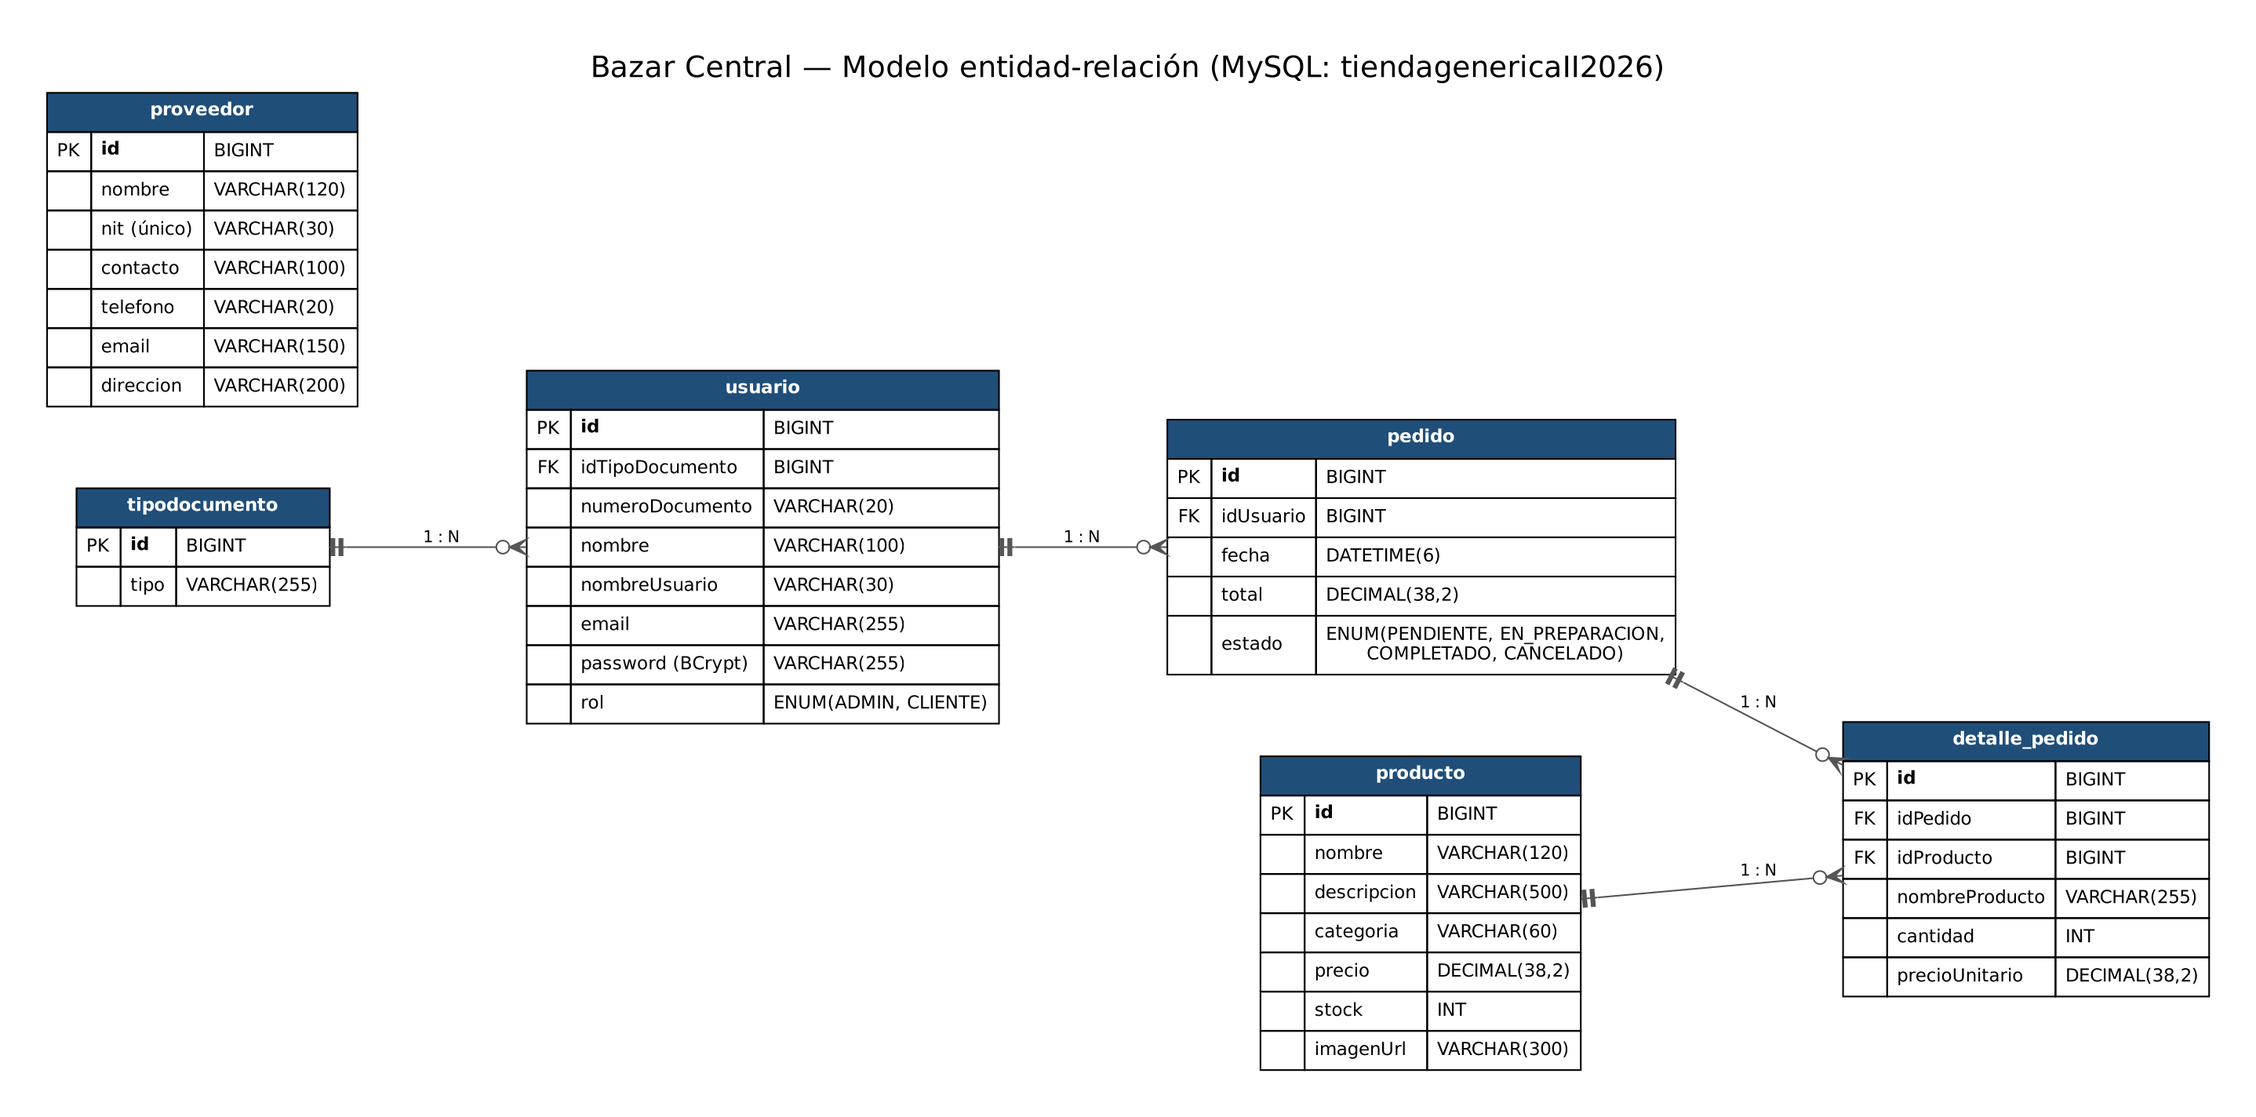
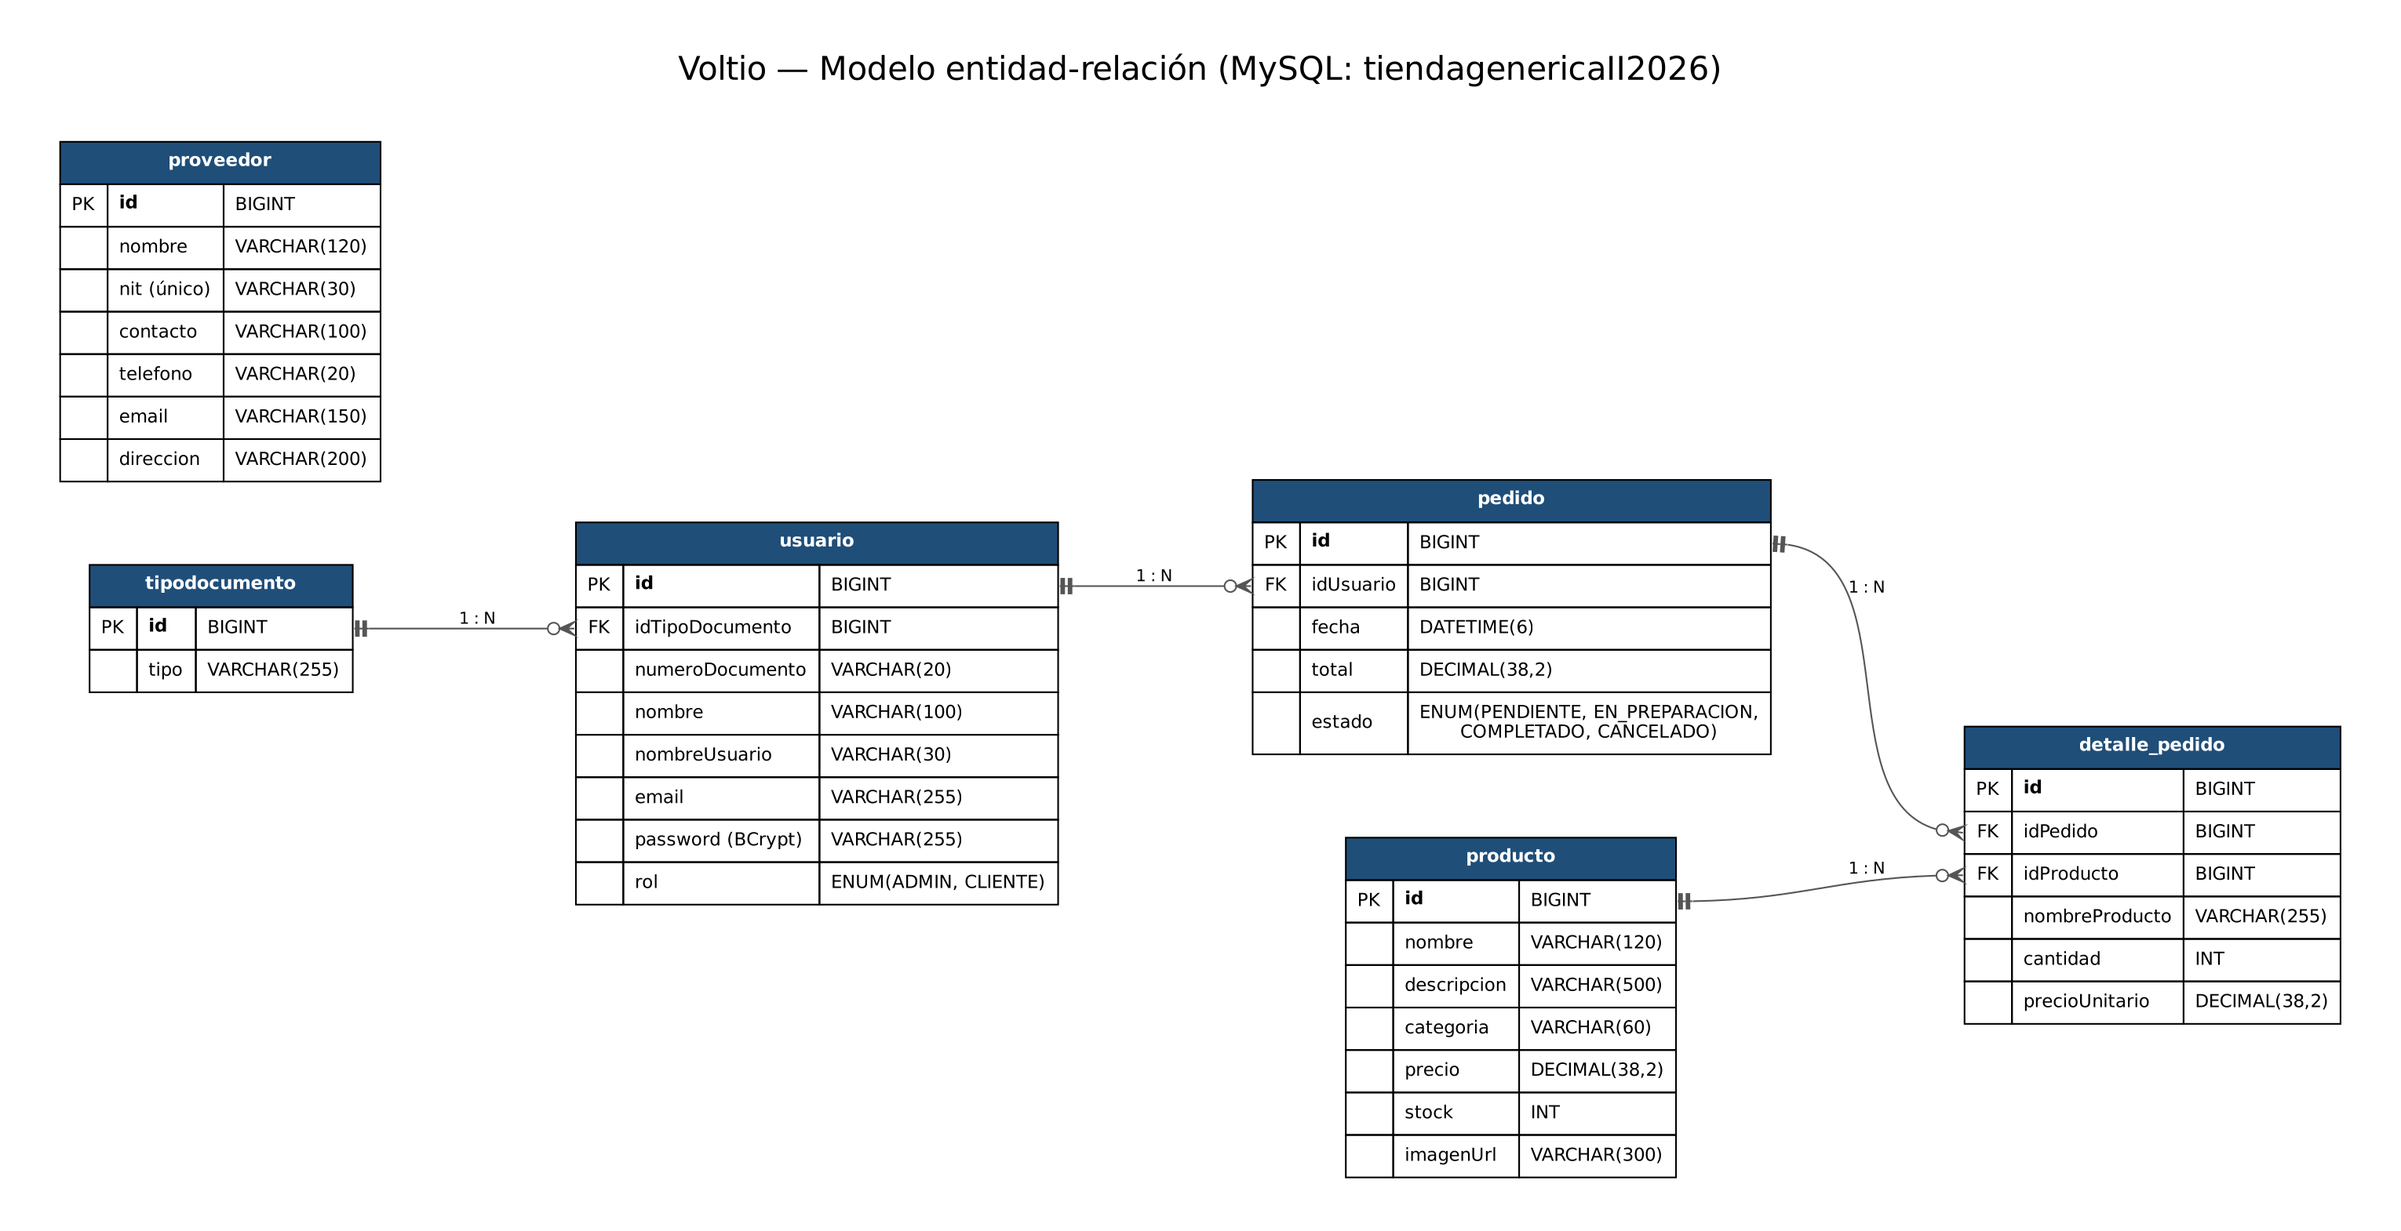
docs: guia del proyecto final, datos iniciales y DER

diff --git a/frontend-react/src/api/cliente.js b/frontend-react/src/api/cliente.js
@@ -52,8 +52,8 @@ export async function apiFetch(path, options = {}) {
       window.dispatchEvent(new Event('sesion-expirada'));
     }
 
-    // Errores de validacion (400) traen el detalle de cada campo en data.campos
-    const detalleCampos = data?.campos ? ` ${Object.values(data.campos).join('. ')}` : '';
+    // Errores de validacion (400) traen el detalle de cada campo en data.camposInvalidos
+    const detalleCampos = data?.camposInvalidos ? ` ${Object.values(data.camposInvalidos).join('. ')}` : '';
     const mensaje = (data && (data.mensaje || data.error)) || `Error ${res.status}`;
     throw new Error(mensaje + detalleCampos);
   }

diff --git a/README.md b/README.md
@@ -1,140 +1,265 @@
-# Bazar Central
+# Voltio — Tecnología que prende
 
-Tienda en línea con **backend REST** (Java + Spring Boot) y **frontend web** (HTML, CSS y JavaScript).
-Los clientes consultan el catálogo y hacen pedidos; los administradores gestionan productos, usuarios,
-pedidos y proveedores.
+Tienda en línea de tecnología con **backend REST en Spring Boot**, **frontend en React** y base de datos **MySQL**.
+Los clientes consultan el catálogo, arman su carrito y hacen pedidos; los administradores gestionan productos,
+stock, pedidos y proveedores. La autenticación usa **JWT** con roles `ADMIN` y `CLIENTE`.
 
-- **Demo (frontend):** https://ornate-peony-5b796d.netlify.app/
-- **Documentación de la API (Swagger):** `http://localhost:8094/swagger-ui.html` (local)
-- **Tablero Jira:** _pegar aquí el enlace del tablero_
-- **Video / presentación:** _pegar aquí el enlace_
+Proyecto final de **Desarrollo de Aplicaciones Empresariales** — Tecnología en Desarrollo de Sistemas Informáticos, UTS (Bucaramanga).
 
-## Integrantes y aportes
-
-| Integrante | CRUD / aporte principal |
+| Recurso | Enlace |
 |---|---|
-| Sebastián García | CRUD de **Productos** y **Usuarios**, autenticación JWT y roles, pedidos, frontend, despliegue |
-| Jhoen Felizzola | CRUD de **Proveedores** (`/api/proveedores`) |
+| Repositorio | https://github.com/sebasgPayares/bazar-central-backend |
+| Aplicación en local | http://localhost:5173 |
+| Documentación de la API en local (Swagger) | http://localhost:8094/swagger-ui.html |
 
-> Cada integrante trabajó en su propia rama y entregó mediante Pull Request (ver historial del repositorio).
+La sustentación se hace con el proyecto ejecutándose en local (ver [Cómo ejecutarlo en local](#cómo-ejecutarlo-en-local)).
+Durante el semestre también se publicó en Railway (backend y MySQL) y Netlify (frontend); esas direcciones
+pueden estar apagadas porque dependen de un plan de pago.
+
+> El proyecto empezó como "Bazar Central" y luego se renombró a "Voltio"; por eso el repositorio y la base de datos
+> conservan el nombre anterior.
+
+## Contenido
+
+1. [Integrantes](#integrantes)
+2. [Funcionalidades](#funcionalidades)
+3. [Tecnologías](#tecnologías)
+4. [Arquitectura](#arquitectura)
+5. [Base de datos: script y DER](#base-de-datos-script-y-der)
+6. [Seguridad: login con JWT](#seguridad-login-con-jwt)
+7. [Endpoints de la API](#endpoints-de-la-api)
+8. [Frontend en React](#frontend-en-react)
+9. [Cómo ejecutarlo en local](#cómo-ejecutarlo-en-local)
+10. [Despliegue](#despliegue)
+11. [Flujo de trabajo con Git](#flujo-de-trabajo-con-git)
+12. [Estructura del repositorio](#estructura-del-repositorio)
+
+## Integrantes
+
+| Integrante | Aporte principal |
+|---|---|
+| Sebastián García | CRUD de Productos y Usuarios, autenticación JWT y roles, pedidos, frontend (JavaScript y migración a React), despliegue |
+| Jhoen David Felizzola Alvear | CRUD de Proveedores (`/api/proveedores`) |
+
+## Funcionalidades
+
+**Cliente (y visitante)**
+- Catálogo con buscador y filtros por categoría (público).
+- Detalle de producto con stock disponible.
+- Carrito lateral guardado por usuario; el carrito de invitado se conserva al iniciar sesión.
+- Registro, inicio de sesión y cierre de sesión.
+- Compra: crea un pedido, valida y descuenta el stock.
+- Historial "Mis pedidos" con el estado de cada pedido.
+
+**Administrador**
+- Panel de productos: crear, editar, eliminar y ajustar stock (+10 / -1 venta).
+- Gestión de pedidos de todos los clientes: `PENDIENTE` → `EN_PREPARACION` → `COMPLETADO`, o `CANCELADO`
+  (cancelar devuelve el stock al catálogo).
+- CRUD de proveedores con buscador y NIT único.
 
 ## Tecnologías
 
-- **Backend:** Java, Spring Boot, Spring Data JPA (Hibernate), Spring Security, Bean Validation
-- **Seguridad:** JWT sin sesiones (stateless), contraseñas con BCrypt, roles `ADMIN` y `CLIENTE`
-- **Base de datos:** MySQL
-- **Documentación de la API:** Springdoc OpenAPI (Swagger UI)
-- **Frontend:** HTML, CSS y JavaScript (en la carpeta `frontend/`)
-- **Herramientas:** Maven, Git y GitHub, Jira, Railway (backend y base de datos), Netlify (frontend)
+| Capa | Tecnologías |
+|---|---|
+| Backend | Java 17 (definido en `pom.xml`), Spring Boot 4.1.1, Spring Web, Spring Data JPA (Hibernate), Bean Validation, Lombok |
+| Seguridad | Spring Security, JWT (librería JJWT 0.12.6), BCrypt, sesiones `STATELESS` |
+| Base de datos | MySQL / MariaDB |
+| Documentación API | Springdoc OpenAPI (Swagger UI) |
+| Frontend | React 19, Vite 7, React Router 7, JavaScript, `fetch`, CSS propio (tema oscuro) |
+| Despliegue | Railway (backend + MySQL), Netlify (frontend) |
+| Herramientas | Maven, Git y GitHub (ramas `feature/*` + Pull Requests), Eclipse, VS Code |
 
 ## Arquitectura
 
-El backend sigue una arquitectura por capas:
-
 ```
-controlador  →  servicio  →  repositorio  →  base de datos (MySQL)
-   (REST)       (negocio)      (JPA)
+Navegador (React SPA, Netlify)
+        │  fetch + JSON · Authorization: Bearer <token>
+        ▼
+API REST Spring Boot (Railway)
+  controlador  →  servicio  →  repositorio  →  MySQL
+    (REST)        (negocio)       (JPA)
+        ▲
+  seguridad: JwtAuthFiltro + SecurityConfig (roles por ruta)
 ```
 
-Paquete base: `uis.edu.entornos.tienda`
-`config`, `controlador`, `dto`, `excepcion`, `modelo`, `repositorio`, `seguridad`, `servicio`.
+Paquete base del backend: `uis.edu.entornos.tienda`
 
-## Diseño de la base de datos
+| Paquete | Contenido |
+|---|---|
+| `controlador` | Endpoints REST (`AuthControlador`, `ProductoControlador`, `PedidoControlador`, `ProveedorControlador`, `UsuarioControlador`, `TipoDocumentoControlador`) |
+| `servicio` | Reglas de negocio (validar stock, calcular totales, cambiar estados) |
+| `repositorio` | Interfaces Spring Data JPA |
+| `modelo` | Entidades JPA y enums (`Rol`, `EstadoPedido`) |
+| `dto` | Objetos de entrada y salida (login, pedidos, usuarios) |
+| `seguridad` | JWT, filtro, reglas de acceso y respuestas 401/403 |
+| `excepcion` | Excepciones propias y manejador global de errores en JSON |
+| `config` | BCrypt, CORS, Swagger y creación del usuario administrador inicial |
+
+## Base de datos: script y DER
 
 ![Diagrama entidad-relación](docs/diagrama_bd.png)
 
-Script de referencia con la estructura completa: [`docs/esquema_bd.sql`](docs/esquema_bd.sql)
+| Archivo | Para qué sirve |
+|---|---|
+| [`docs/esquema_bd.sql`](docs/esquema_bd.sql) | Crea la base `tiendagenericaII2026` y las 6 tablas con sus llaves foráneas |
+| [`docs/datos_iniciales.sql`](docs/datos_iniciales.sql) | Inserta los tipos de documento (obligatorios) y productos de ejemplo |
+| [`docs/diagrama_bd.png`](docs/diagrama_bd.png) | Diagrama entidad-relación |
 
 | Tabla | Descripción |
 |---|---|
 | `tipodocumento` | Tipos de documento de identidad |
-| `usuario` | Usuarios del sistema (rol `ADMIN` o `CLIENTE`) |
+| `usuario` | Usuarios del sistema, rol `ADMIN` o `CLIENTE`, contraseña cifrada con BCrypt |
 | `producto` | Catálogo de productos y su stock |
-| `pedido` | Pedido de un usuario, con estado y total |
-| `detalle_pedido` | Productos, cantidades y precios de cada pedido |
-| `proveedor` | Proveedores (NIT único) |
+| `pedido` | Pedido de un usuario, con fecha, estado y total |
+| `detalle_pedido` | Productos, cantidades y precio unitario de cada pedido |
+| `proveedor` | Proveedores del negocio (NIT único) |
 
-Relaciones: un tipo de documento tiene muchos usuarios; un usuario tiene muchos pedidos; un pedido tiene
-muchos detalles; un producto aparece en muchos detalles.
+Relaciones: un tipo de documento tiene muchos usuarios; un usuario tiene muchos pedidos; un pedido tiene muchos
+detalles; un producto aparece en muchos detalles. `detalle_pedido` guarda el nombre y el precio del producto al
+momento de la compra, para que el historial no cambie si luego se edita el producto.
 
-## Seguridad y permisos
+> Hibernate está configurado con `ddl-auto=update`, así que también crea o actualiza las tablas al arrancar.
+> Los scripts son la referencia del diseño y permiten montar la base desde cero.
+
+## Seguridad: login con JWT
+
+1. El frontend envía `POST /api/auth/login` con `{ "nombreUsuario", "password" }`.
+2. `AuthControlador` busca el usuario y compara la contraseña con BCrypt.
+3. Si es correcta, `JwtService` firma un token con el nombre de usuario, el rol y el id; vence a las 24 horas.
+4. El frontend guarda la respuesta (`token`, `nombreUsuario`, `nombre`, `rol`) en `localStorage`.
+5. Cada petición protegida lleva el encabezado `Authorization: Bearer <token>`.
+6. `JwtAuthFiltro` valida la firma y el vencimiento; `SecurityConfig` revisa si el rol puede usar esa ruta.
+
+Respuestas de error en JSON: **401** sin token, token inválido o credenciales incorrectas; **403** rol sin
+permiso. El registro público siempre crea usuarios `CLIENTE`. Al arrancar, `DataInitializer` crea un usuario
+`admin` si no existe.
 
 | Recurso | Quién puede |
 |---|---|
 | `/api/auth/**`, Swagger | Público |
 | `GET /api/productos/**`, `GET /api/tipos-documento/**` | Público |
 | `POST`, `PUT`, `PATCH`, `DELETE /api/productos/**` | Solo `ADMIN` |
-| `/api/usuarios/**` | Solo `ADMIN` |
-| `/api/proveedores/**` | Solo `ADMIN` |
+| `/api/usuarios/**`, `/api/proveedores/**` | Solo `ADMIN` |
 | `GET /api/pedidos/mis-pedidos` | Usuario autenticado |
 | `GET /api/pedidos`, `PATCH /api/pedidos/{id}/estado` | Solo `ADMIN` |
-| Cualquier otra ruta | Usuario autenticado |
+| Cualquier otra ruta (por ejemplo `POST /api/pedidos`) | Usuario autenticado |
 
-Los endpoints protegidos exigen el encabezado `Authorization: Bearer <token>`.
+## Endpoints de la API
 
-## CRUDs
+| Recurso | Endpoints |
+|---|---|
+| Autenticación | `POST /api/auth/registro` · `POST /api/auth/login` |
+| Productos | `GET /api/productos` · `GET /api/productos/{id}` · `POST /api/productos` · `PUT /api/productos/{id}` · `PATCH /api/productos/{id}/stock?cantidad=N` · `DELETE /api/productos/{id}` |
+| Pedidos | `POST /api/pedidos` · `GET /api/pedidos/mis-pedidos` · `GET /api/pedidos` · `GET /api/pedidos/{id}` · `PATCH /api/pedidos/{id}/estado` |
+| Proveedores | `GET /api/proveedores` · `GET /api/proveedores/{id}` · `POST /api/proveedores` · `PUT /api/proveedores/{id}` · `DELETE /api/proveedores/{id}` |
+| Usuarios | `GET /api/usuarios` · `GET /api/usuarios/{id}` · `POST /api/usuarios` · `PUT /api/usuarios/{id}` · `DELETE /api/usuarios/{id}` |
+| Tipos de documento | `GET /api/tipos-documento` · `GET /api/tipos-documento/{id}` |
 
-| Entidad | Ruta base | Responsable |
-|---|---|---|
-| Producto | `/api/productos` | Sebastián |
-| Usuario | `/api/usuarios` | Sebastián |
-| Proveedor | `/api/proveedores` | _Compañero_ |
-
-Operaciones de Proveedor: `GET /api/proveedores`, `GET /api/proveedores/{id}`,
-`POST /api/proveedores`, `PUT /api/proveedores/{id}`, `DELETE /api/proveedores/{id}`.
-
-Ejemplo de cuerpo para crear un proveedor:
+Ejemplo para crear un pedido (requiere token):
 
 ```json
-{
-  "nombre": "Distribuidora Santander",
-  "nit": "900123456-7",
-  "contacto": "Laura Pérez",
-  "telefono": "3001234567",
-  "email": "ventas@distrisantander.com",
-  "direccion": "Cra 27 # 45-10, Bucaramanga"
-}
+{ "items": [ { "productoId": 1, "cantidad": 2 }, { "productoId": 4, "cantidad": 1 } ] }
 ```
+
+La documentación completa, con todos los cuerpos y respuestas, está en Swagger.
+
+## Frontend en React
+
+Carpeta [`frontend-react/`](frontend-react/) — aplicación de una sola página (SPA) con Vite y React Router.
+Su propio [README](frontend-react/README.md) explica cada archivo.
+
+| Carpeta | Contenido |
+|---|---|
+| `src/api/` | `cliente.js` (`apiFetch` con `fetch`, token Bearer y errores) y un servicio por recurso |
+| `src/context/` | `AuthContext` (sesión), `CarritoContext` (carrito por usuario), `ToastContext` (avisos) |
+| `src/routes/` | `RutaProtegida` (exige sesión o rol `ADMIN`) |
+| `src/pages/` | Catálogo, Detalle, Login, Registro, Mis pedidos, Panel, Pedidos, Proveedores |
+| `src/components/` | Header, Carrito, Tarjeta de producto, Tarjeta de pedido, Layout |
+
+| Ruta | Página | Acceso |
+|---|---|---|
+| `/` | Catálogo | Público |
+| `/producto/:id` | Detalle | Público |
+| `/login`, `/registro` | Inicio de sesión y registro | Público |
+| `/mis-pedidos` | Historial de compras | Con sesión |
+| `/panel`, `/panel/pedidos`, `/panel/proveedores` | Administración | Solo `ADMIN` |
+
+La carpeta [`frontend/`](frontend/) conserva la primera versión en HTML, CSS y JavaScript puro, antes de la
+migración a React.
 
 ## Cómo ejecutarlo en local
 
-**Requisitos:** JDK (versión indicada en `pom.xml`), Maven (o `mvnw`), MySQL (XAMPP sirve), Git.
+**Requisitos:** JDK 17 o superior, MySQL (XAMPP sirve), Node.js 22 o superior, Git.
 
-1. Clonar el repositorio:
-   ```bash
-   git clone https://github.com/sebasgPayares/bazar-central-backend.git
-   cd bazar-central-backend
-   ```
-2. Crear la base de datos `tiendagenericaII2026` en MySQL (puede ejecutarse `docs/esquema_bd.sql`).
-3. Revisar `src/main/resources/application.properties` (usuario y contraseña de MySQL).
-   Por defecto: `root` sin contraseña, base en `localhost:3306`.
-4. Arrancar el backend:
-   ```bash
-   ./mvnw spring-boot:run
-   ```
-5. Abrir `http://localhost:8094/swagger-ui.html`.
-6. Para el frontend, abrir `frontend/index.html` o servir la carpeta `frontend/`, y apuntar la constante
-   `API_BASE` de `api.js` al backend (`http://localhost:8094/api`).
+### 1. Base de datos
 
-### Probar los endpoints protegidos
+En MySQL (phpMyAdmin o consola), ejecutar en orden:
 
-1. Registrar un usuario en `/api/auth/register` e iniciar sesión en `/api/auth/login`.
-2. Copiar el token y pegarlo en **Authorize** de Swagger.
-3. Para probar rutas de `ADMIN`, el usuario debe tener rol `ADMIN`.
+1. `docs/esquema_bd.sql`
+2. `docs/datos_iniciales.sql`
+
+### 2. Backend
+
+```bash
+git clone https://github.com/sebasgPayares/bazar-central-backend.git
+cd bazar-central-backend
+./mvnw spring-boot:run          # en Windows: mvnw.cmd spring-boot:run
+```
+
+- También se puede importar en Eclipse como proyecto Maven y ejecutar `ProyectoInicialApplication`.
+- Conexión por defecto en `src/main/resources/application.properties`: `root` sin contraseña, `localhost:3306`.
+- API: `http://localhost:8094/api` · Swagger: `http://localhost:8094/swagger-ui.html`.
+- Al arrancar se crea el usuario `admin` (ver `config/DataInitializer.java`).
+
+### 3. Frontend
+
+```bash
+cd frontend-react
+npm install
+npm run dev                     # abre http://localhost:5173
+```
+
+El archivo `.env` apunta al backend que estuvo publicado en Railway. Para usar el backend local, crear
+`frontend-react/.env.local` con:
+
+```
+VITE_API_URL=http://localhost:8094/api
+```
+
+### 4. Probar el login en Swagger
+
+1. Ejecutar `POST /api/auth/login` y copiar el `token`.
+2. Pulsar **Authorize** y pegar el token.
+3. Probar `GET /api/pedidos/mis-pedidos`: sin token responde 401, con token responde 200.
+
+## Despliegue
+
+Durante el semestre el proyecto se publicó así (hoy puede estar apagado):
+
+| Parte | Plataforma | Cómo se publica |
+|---|---|---|
+| Backend + MySQL | Railway | Despliegue automático en cada push a `master` |
+| Frontend | Netlify | `npm run build` en `frontend-react/` y se sube la carpeta `dist/` (incluye `_redirects` para la SPA) |
+
+En producción conviene definir en Railway la variable `JWT_SECRET` (Spring la usa en lugar de `jwt.secret`),
+para que la clave que firma los tokens no sea la del repositorio.
 
 ## Flujo de trabajo con Git
 
 - Rama principal: `master`.
-- Cada funcionalidad se desarrolla en una rama propia (`feature/...`) y se integra con Pull Request.
+- Cada funcionalidad se desarrolla en una rama propia (`feature/...`) y se integra con Pull Request
+  (por ejemplo, PR #6 `feature/frontend-react`, migración del frontend a React).
 - Convención de commits: `feat(...)`, `fix(...)`, `docs(...)`, `chore(...)`.
 
 ## Estructura del repositorio
 
 ```
 bazar-central-backend/
-├── docs/                 diagrama y esquema de la base de datos
-├── frontend/             interfaz web
-├── src/main/java/...     código del backend por capas
-├── src/main/resources/   configuración (application.properties)
-└── pom.xml
+├── docs/                  script SQL, datos iniciales y DER
+├── frontend-react/        frontend actual (React + Vite)
+├── frontend/              primera versión del frontend (HTML, CSS y JavaScript)
+├── src/main/java/...      backend por capas (uis.edu.entornos.tienda)
+├── src/main/resources/    application.properties
+├── pom.xml                dependencias Maven
+└── README.md              este documento
 ```
